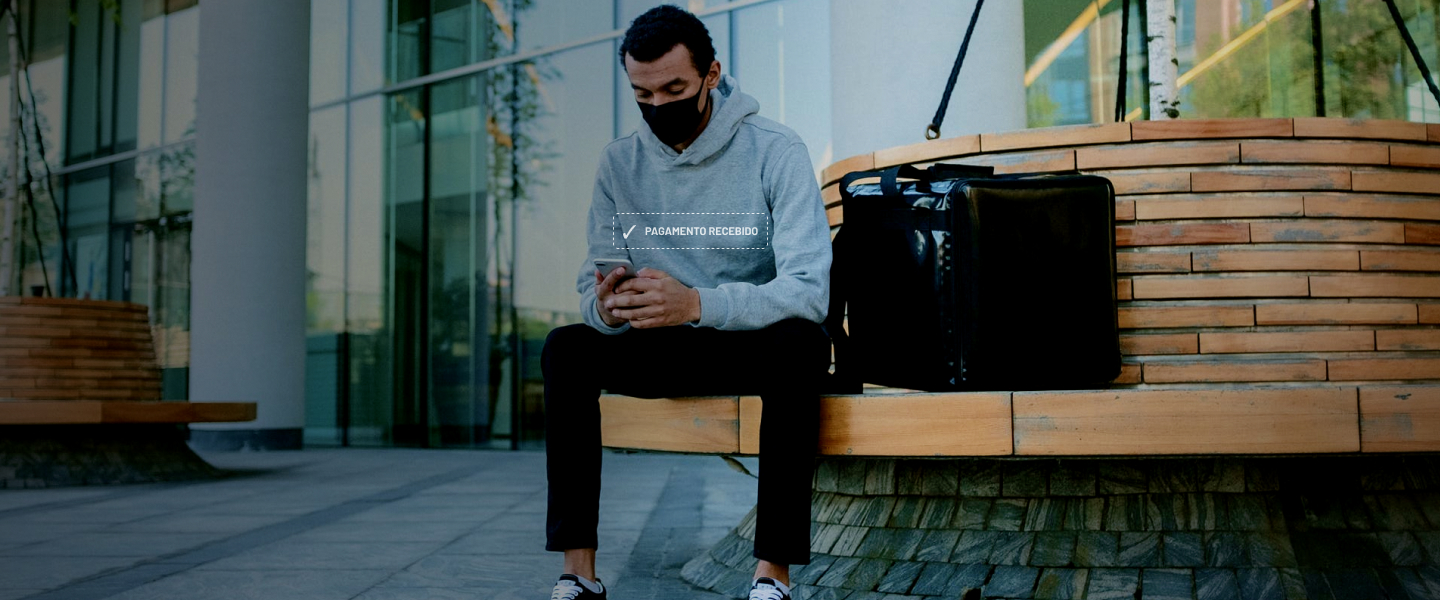
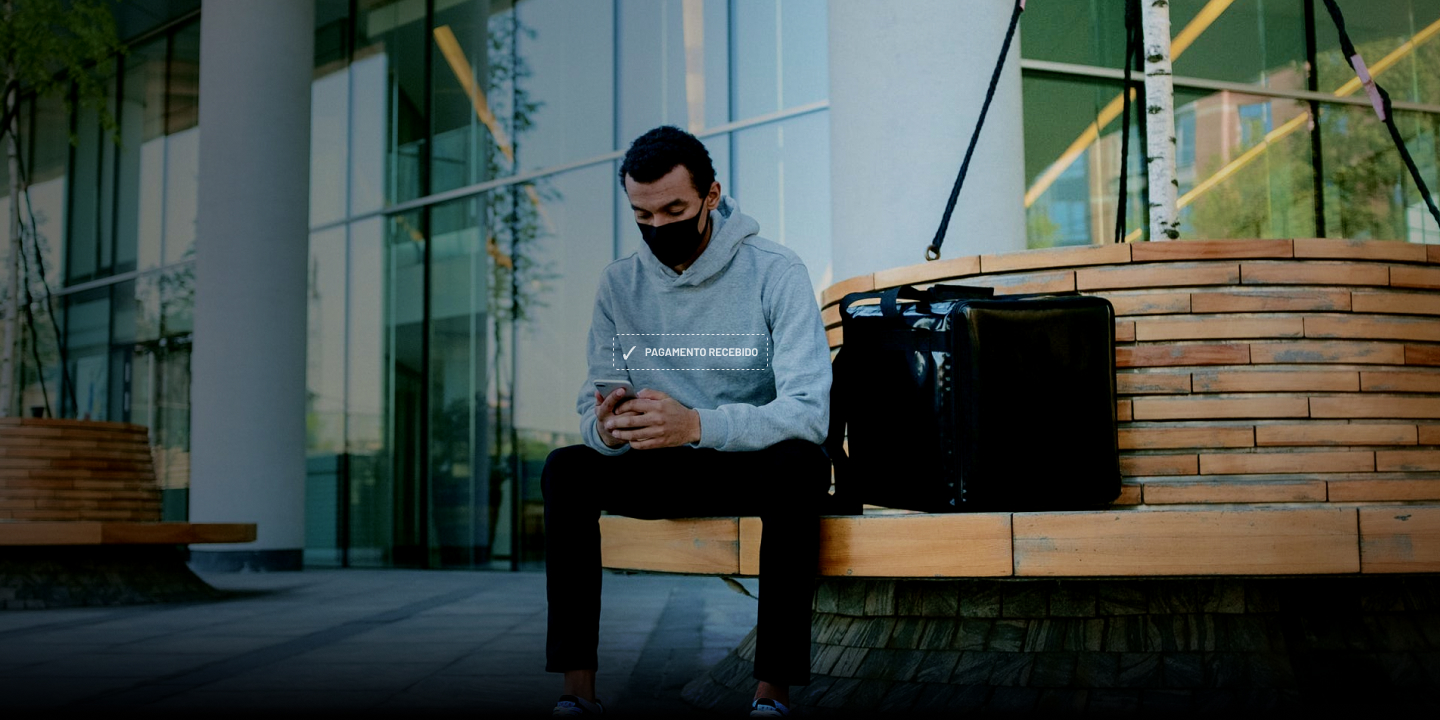
landing 2.0 complete

diff --git a/frontend/src/components/Footer.tsx b/frontend/src/components/Footer.tsx
@@ -23,27 +23,26 @@ const Footer: React.FC<FooterProps> = ({isHome}) => {
         textDecoration="underline"
       >
         <Container
-          p={{base: '33px 0 9px', md: '32px 0 96px'}}
+          pt="32px"
+          pb={{base: '9px', md: '96px'}}
           display="flex"
           flexDir="column"
         >
-          <Flex w="100%" flexDir={{base: 'column', md: 'row'}} justifyContent="space-between" alignItems="center">
+          <Flex w="100%" flexDir={{base: 'column', lg: 'row'}} justifyContent="space-between" alignItems="center">
             <Flex
               w="100%"
-              m="0"
-              p="0"
-              flexDir={["column", null, null, "row"]}
+              flexDir={{base:"column", lg: "row"}}
               justifyContent="flex-start"
               alignItems="flex-start"
-              mb={["50px", "50px", "50px", "0"]}
+              mb={{base:"50px", md: "50px", lg: "0"}}
             >
               <Flex
                 flexDir="row"
                 justifyContent="space-between"
                 alignItems="center"
                 color="white"
-                mb={["22px", null, null, "0"]}
-                display={["block", null, null, "none"]}
+                mb={{base:"22px", lg: "0"}}
+                display={{base:"block", lg: "none"}}
               >
                 <Link
                   name="go_to_linkedin_footer"
@@ -87,8 +86,8 @@ const Footer: React.FC<FooterProps> = ({isHome}) => {
                 justifyContent="space-between"
                 alignItems="center"
                 color="white"
-                mb={["22px", null, null, "0"]}
-                mr={["0", null, null, "26px"]}
+                mb={{base: "22px", lg: "0"}}
+                mr={{base: "0", lg: "26px"}}
               >
                 <Icon as={MdMailOutline}
                   color="primary"
@@ -108,8 +107,8 @@ const Footer: React.FC<FooterProps> = ({isHome}) => {
                 justifyContent="space-between"
                 alignItems="center"
                 color="white"
-                mb={["26px", null, null, "0"]}
-                display={["none", null, null, "block"]}
+                mb={{base: "26px", lg: "0"}}
+                display={{base: "none", lg: "block"}}
               >
                 <Link
                   name="go_to_linkedin_footer"
@@ -156,21 +155,21 @@ const Footer: React.FC<FooterProps> = ({isHome}) => {
               w="100%"
               m="0"
               p="0"
-              flexDir={["column", null, null, "row"]}
-              justifyContent={["flex-start", null, null, "flex-end"]}
-              alignItems={["flex-start", null, null, "flex-end"]}
+              flexDir={{base:"column", lg: "row"}}
+              justifyContent={{base: "flex-start", lg: "flex-end"}}
+              alignItems={{base: "flex-start", lg: "flex-end"}}
               color="white"
             >
               <Link
                 name="terms_footer"
                 link="https://github.com/appjusto/docs/blob/main/legal/termo-tratamento-de-dados.md"
                 linkLabel="Termos de uso"
-                mb={["22px", null, null, "0"]}
+                mb={{base: "12px", lg: "0"}}
                 fontSize="15px"
               />
             </Flex>
           </Flex>
-          <Box w="100%" textAlign={{base: 'start', md: 'end'}}>
+          <Box w="100%" textAlign={{base: 'start', lg: 'end'}}>
             <Text color="white">
               JUSTO TECNOLOGIA E INOVAÇÃO SOCIAL LTDA - CNPJ:38.447.139/0001-50
             </Text>

diff --git a/frontend/src/components/home/hero/RegistrationBox.tsx b/frontend/src/components/home/hero/RegistrationBox.tsx
@@ -1,38 +1,18 @@
 import {
-  useReducer, useEffect, useRef, ChangeEvent, FormEvent, useState
+  useEffect, useRef, ChangeEvent, FormEvent, useState
 }from 'react'
 import { Box, Flex, Heading, Text } from "@chakra-ui/react"
-
 import CustomPhoneInput from '../../CustomPhoneInput'
 import CustomSelect from "../../CustomSelect"
-//import CustomComboInput from '../../CustomComboInput'
 import CustomButton from '../../CustomButton'
 import FormMessage from '../../FormMessage'
-
 import { usePageContext, handleMessage } from '../../../context'
-
-import { ufsList, getCities, profileOptions } from '../../../utils'
-
-import { registrationReducer, Actions } from '../../../reducers/registrationReducer'
-
+import { profileOptions } from '../../../utils'
 import { modalConfOptions } from '../../ModalConfirmation'
 import CustomInput from '../../CustomInput'
 import Image from '../../Image';
 import Section from '../../Section';
 import Container from '../../Container';
-
-const initialState = {
-  profile: "couriers",
-  phone: "",
-  uf: "",
-  city: "",
-  email: "",
-  isLoadingCities: false,
-  citiesList: [],
-  isSubmiting: false,
-  pageLimit: false,
-  fieldsAreValid: { phone: true, uf: true, city: true }
-}
 
 const RegistrationBox: React.FC = () => {
   // context
@@ -44,10 +24,9 @@ const RegistrationBox: React.FC = () => {
   const [isSubmiting, setIsSubmiting] = useState(false)
   const [validation, setValidation] = useState({ phone: true })
   const [pageLimit, setPageLimit] = useState(false)
-  //const [state, unsafeDispatch] = useReducer(registrationReducer, initialState)
 
   const isMountedRef = useRef(false);
-
+  // hadlers
   const handleScroll = () => {
     const width = window.innerWidth
     || document.documentElement.clientWidth
@@ -99,6 +78,7 @@ const RegistrationBox: React.FC = () => {
     })
   }
 
+  // side effects
   useEffect(() => {
     isMountedRef.current = true
     return () => isMountedRef.current = false
@@ -108,7 +88,8 @@ const RegistrationBox: React.FC = () => {
     window.addEventListener('scroll', handleScroll, true);
     return window.removeEventListener("scroll", handleScroll)
   }, [])
-  console.log("REGISTRATION !!!")
+
+  // UI
   return (
     <Section
       position={{ base: 'relative', md: 'fixed' }}

diff --git a/frontend/src/components/ShareFooter.tsx b/frontend/src/components/ShareFooter.tsx
@@ -41,7 +41,7 @@ const ShareFooter: React.FC = () => {
     >
       <Container
         h="64px"
-        p="8px 0"
+        py="8px"
         display="flex"
         flexDir="row"
         justifyContent="space-between"
@@ -99,8 +99,8 @@ const ShareFooter: React.FC = () => {
                   <Icon
                     as={BiUpArrowAlt}
                     fontWeight="700"
-                    width={["32px", null, null, "16px"]}
-                    height={["32px", null, null, "16px"]}
+                    width={{base: "32px", md: "16px"}}
+                    height={{base: "32px", md: "16px"}}
                   />
                 </Flex>
               </ScrollLink>

diff --git a/frontend/src/components/home/hero/index.tsx b/frontend/src/components/home/hero/index.tsx
@@ -6,7 +6,7 @@ import Content from '../../Content';
 
 const Hero: React.FC = () => {
   return (
-    <Section id="hero" h={{ base: '600px', md: '680px', lg: '600px' }} overflow="hidden">
+    <Section id="hero" h={{ base: '600px', md: '840px', lg: '720px' }} overflow="hidden">
       <Container>
         <Content mt={{base: '60px' , md: '200px'}}>
           <Flex flexDir="column">
